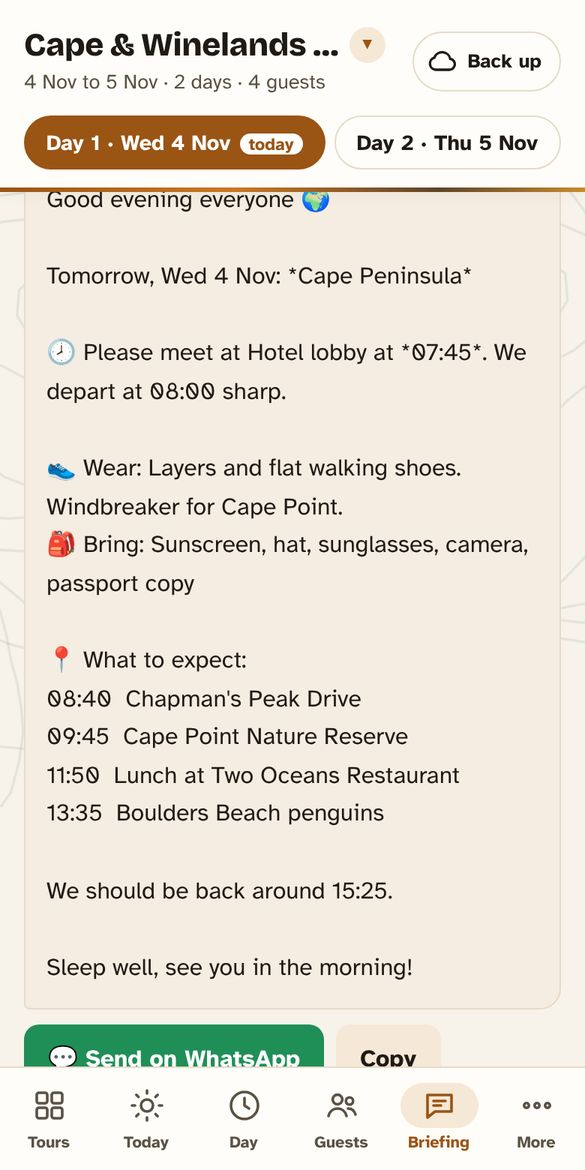
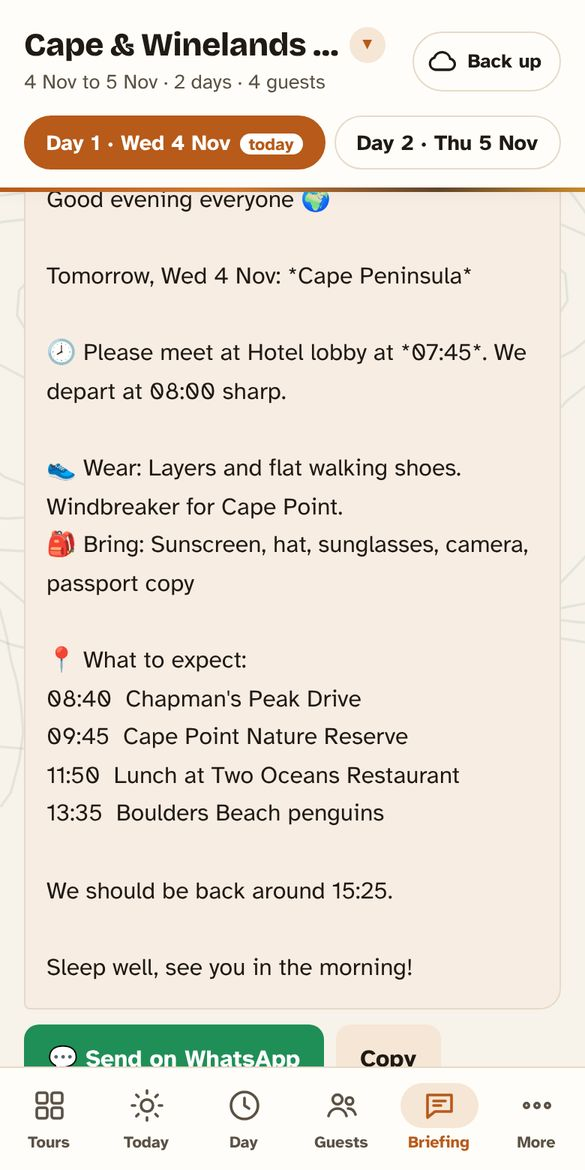
Palette: #B75A1A burnt ochre as the main colour
Claude-Session: https://claude.ai/code/session_018UiXZK7UZvbaUVGs1HsDqT

Changed region(s): [[0.0308, 0.0923, 0.5538, 0.1538], [0.0, 0.1538, 0.0308, 0.1846]]

diff --git a/site/index.html b/site/index.html
@@ -68,17 +68,17 @@ input:focus,textarea:focus,button:focus-visible{outline:2px solid var(--accent);
 .tmore summary::-webkit-details-marker{display:none}
 .tile .tic{font-size:1.2rem;font-weight:800;color:var(--accent)}
 nav button span{font-size:.68rem}
-/* Ochre palette (v15): #CC7722 is the signature; #9A5414 carries text and buttons so they stay readable in sun */
-:root{--bg:#f7f2ea;--surface:#fffdf9;--soft:#f6e8d6;--line:#e6dac8;--muted:#5a5144;--ink:#1f1a14;--accent:#9a5414;--accent-2:#cc7722;--brand:#cc7722;--ochre:#5e4429;--sand:#f6e9d6;--sky:#2f6ea5;--game:#5f7a2e}
+/* Ochre palette (v15): #B75A1A burnt ochre is the main colour (white text on it passes WCAG AA), umber the second */
+:root{--bg:#f7f2ea;--surface:#fffdf9;--soft:#f6e6d6;--line:#e6dac8;--muted:#5a5144;--ink:#1f1a14;--accent:#b75a1a;--accent-2:#d07a35;--brand:#b75a1a;--ochre:#5e4429;--sand:#f6e9d6;--sky:#2f6ea5;--game:#5f7a2e}
 body{background-image:url(topo-earth.svg)}
-header::after{background:linear-gradient(90deg,var(--brand),#e09a45 55%,var(--ochre))}
-.hero{background:url(topo-w.svg) right -120px center/560px auto no-repeat,linear-gradient(150deg,#b86418 0%,#8a4a12 100%);box-shadow:0 10px 30px rgb(110 60 15 / .28)}
-.hello{background:linear-gradient(90deg,var(--brand),#8a4a12)}
-.tbadge.b-live{background:var(--brand);color:#1f1a14}.tbadge.b-next{background:var(--soft);color:var(--accent)}
+header::after{background:linear-gradient(90deg,var(--brand),#d9923f 55%,var(--ochre))}
+.hero{background:url(topo-w.svg) right -120px center/560px auto no-repeat,linear-gradient(150deg,#b75a1a 0%,#8a4210 100%);box-shadow:0 10px 30px rgb(110 50 15 / .28)}
+.hello{background:linear-gradient(90deg,#b75a1a,#7e3d10)}
+.tbadge.b-live{background:var(--brand);color:#fff}.tbadge.b-next{background:var(--soft);color:var(--accent)}
 .tcard.live{border-color:var(--brand);box-shadow:0 0 0 1px var(--brand),var(--shadow)}
-nav button.on svg{background:#f6e1c4}
+nav button.on svg{background:#f5ddc8}
 .days button.on{background:var(--accent);border-color:var(--accent)}
-.days button .td{background:var(--brand);color:#1f1a14}
+.days button .td{background:#fff;color:var(--accent)}
 .arch summary{cursor:pointer;font-weight:700;margin:18px 0 6px;color:var(--muted)}
 .inst{max-width:640px;margin:12px auto 0;box-sizing:border-box;display:flex;flex-wrap:wrap;gap:8px;align-items:center;justify-content:space-between;background:var(--soft);border:1px solid var(--line);border-radius:12px;padding:10px 12px;font-size:.92rem}
 @media (max-width:672px){.inst{margin:12px 16px 0}}

diff --git a/site/guides.html b/site/guides.html
@@ -1,4 +1,4 @@
-<!doctype html><html lang="en-GB"><head><meta charset="utf-8"><meta name="viewport" content="width=device-width,initial-scale=1"><meta name="color-scheme" content="light"><meta name="theme-color" content="#9a5414">
+<!doctype html><html lang="en-GB"><head><meta charset="utf-8"><meta name="viewport" content="width=device-width,initial-scale=1"><meta name="color-scheme" content="light"><meta name="theme-color" content="#b75a1a">
 <title>Guidewise · The tour guide's app. Tomorrow, sorted.</title>
 <meta name="description" content="Guidewise is the pocket app for tour guides: day plans that move with you, guests and dietaries, WhatsApp briefings, AI import of itineraries, weather, running late, cash and tips. Works offline.">
 <meta property="og:title" content="Guidewise · Tomorrow, sorted."><meta property="og:description" content="The pocket app for tour guides. Day plan, guests, WhatsApp briefing, AI import, offline."><meta property="og:image" content="img/app-today.jpg">
@@ -6,7 +6,7 @@
 <link rel="preconnect" href="https://fonts.googleapis.com">
 <link rel="stylesheet" href="https://fonts.googleapis.com/css2?family=Bricolage+Grotesque:opsz,wght@12..96,600;12..96,800&family=Atkinson+Hyperlegible:wght@400;700&display=swap">
 <style>
-:root{--bg:#f7f2ea;--surface:#fff;--ink:#0f1a15;--muted:#4a5750;--line:#dde3de;--accent:#9a5414;--accent-2:#cc7722;--ochre:#5e4429;--soft:#f6e8d6;--sand:#f6e9d6;--sky:#2f6ea5;--plum:#7a4b8c;--rose:#b2465a;--game:#3f7a34;
+:root{--bg:#f7f2ea;--surface:#fff;--ink:#0f1a15;--muted:#4a5750;--line:#dde3de;--accent:#b75a1a;--accent-2:#d07a35;--ochre:#5e4429;--soft:#f6e8d6;--sand:#f6e9d6;--sky:#2f6ea5;--plum:#7a4b8c;--rose:#b2465a;--game:#3f7a34;
   --display:"Bricolage Grotesque",ui-sans-serif,system-ui,sans-serif;--body:"Atkinson Hyperlegible",ui-sans-serif,system-ui,sans-serif;--shadow:0 1px 2px rgb(15 26 21 / .05),0 8px 24px rgb(15 26 21 / .07)}
 *{box-sizing:border-box}
 body{margin:0;background:var(--bg) url(topo-earth.svg) right -200px top -40px/900px auto no-repeat;color:var(--ink);font:18px/1.6 var(--body)}

diff --git a/site/sw.js b/site/sw.js
@@ -1,4 +1,4 @@
-const C='tp-v34';const F=['./','index.html','backup.js','import.js','vendor/supabase-2.45.4.js','privacy.html','setup.html','guides.html','terms.html','manifest.webmanifest','icon-192.png','icon-512.png','topo.svg','topo-w.svg','topo-earth.svg'];
+const C='tp-v35';const F=['./','index.html','backup.js','import.js','vendor/supabase-2.45.4.js','privacy.html','setup.html','guides.html','terms.html','manifest.webmanifest','icon-192.png','icon-512.png','topo.svg','topo-w.svg','topo-earth.svg'];
 self.addEventListener('install',e=>{e.waitUntil(caches.open(C).then(c=>c.addAll(F)));self.skipWaiting()});
 self.addEventListener('activate',e=>{e.waitUntil(caches.keys().then(k=>Promise.all(k.filter(x=>x!==C).map(x=>caches.delete(x)))));self.clients.claim()});
 /* Own files: network first (so a new version shows at once when there is signal), saved copy when offline or slow.

diff --git a/site/privacy.html b/site/privacy.html
@@ -1,7 +1,7 @@
 <!doctype html><html lang="en-GB"><head><meta charset="utf-8"><meta name="viewport" content="width=device-width,initial-scale=1"><meta name="color-scheme" content="light">
 <title>Guidewise privacy notice</title>
 <style>
-:root{--bg:#f7f2ea;--ink:#111a16;--muted:#46534c;--accent:#9a5414;--line:#d6ddd8}
+:root{--bg:#f7f2ea;--ink:#111a16;--muted:#46534c;--accent:#b75a1a;--line:#d6ddd8}
 body{background:var(--bg);color:var(--ink);font:17px/1.6 "Atkinson Hyperlegible",ui-sans-serif,system-ui,sans-serif;margin:0}
 main{max-width:640px;margin:0 auto;padding:24px 16px 60px}
 h1{font-size:1.6rem;margin:0 0 4px}h2{font-size:1.15rem;margin:28px 0 8px}

diff --git a/site/setup.html b/site/setup.html
@@ -2,7 +2,7 @@
 <title>Set up Guidewise</title>
 <link rel="icon" href="icon-192.png">
 <style>
-:root{--bg:#f7f2ea;--surface:#fff;--ink:#111a16;--muted:#46534c;--line:#d6ddd8;--accent:#9a5414;--soft:#f6e8d6;--ochre:#9a6212}
+:root{--bg:#f7f2ea;--surface:#fff;--ink:#111a16;--muted:#46534c;--line:#d6ddd8;--accent:#b75a1a;--soft:#f6e8d6;--ochre:#9a6212}
 body{background:var(--bg);color:var(--ink);font:17px/1.6 "Atkinson Hyperlegible",ui-sans-serif,system-ui,sans-serif;margin:0}
 main{max-width:640px;margin:0 auto;padding:24px 16px 60px}
 h1{font-size:1.7rem;margin:0}h2{font-size:1.2rem;margin:30px 0 8px}h3{font-size:1rem;margin:16px 0 4px}

diff --git a/site/terms.html b/site/terms.html
@@ -2,7 +2,7 @@
 <title>Guidewise terms and pricing</title>
 <link rel="icon" href="icon-192.png">
 <style>
-:root{--bg:#f7f2ea;--ink:#111a16;--muted:#46534c;--accent:#9a5414;--line:#d6ddd8}
+:root{--bg:#f7f2ea;--ink:#111a16;--muted:#46534c;--accent:#b75a1a;--line:#d6ddd8}
 body{background:var(--bg);color:var(--ink);font:17px/1.6 "Atkinson Hyperlegible",ui-sans-serif,system-ui,sans-serif;margin:0}
 main{max-width:640px;margin:0 auto;padding:24px 16px 60px}
 h1{font-size:1.6rem;margin:0 0 4px}h2{font-size:1.15rem;margin:28px 0 8px}

diff --git a/CLAUDE.md b/CLAUDE.md
@@ -10,7 +10,7 @@ Tagline idea: "Guidewise. Tomorrow, sorted."
 ## Files
 - site/: everything public (Netlify publish dir, set in netlify.toml). Nothing outside site/ is served
 - site/index.html: whole app (vanilla JS, no build step)
-- site/sw.js: service worker. Bump cache name tp-vN on every front-end change (currently tp-v34; own files are fetched network-first, cache when offline). New precached files go in its F list
+- site/sw.js: service worker. Bump cache name tp-vN on every front-end change (currently tp-v35; own files are fetched network-first, cache when offline). New precached files go in its F list
 - site/backup.js: cloud backup (sign-in, POPIA consent, passphrase, encrypt, sync). Shares globals with index.html
 - site/import.js: AI import (tab 'import', from Tours > Import from documents or the Docs tab; can use documents already saved in the tour). Loaded after backup.js and uses its globals (sb, user, plan, plus, refresh, SB_URL, SB_KEY)
 - site/vendor/xlsx-mini-0.18.5.js: SheetJS (Apache-2.0), lazy-loaded by import.js for .xlsx/.csv
@@ -21,7 +21,7 @@ Tagline idea: "Guidewise. Tomorrow, sorted."
 
 ## Design (v10)
 - Opens on Tours every time (tab 'home'; first run still shows the welcome). Bottom bar: Tours, Today, Day, Guests, Briefing, More. Tours page groups: On tour now, Coming up, No dates yet, Finished; actions under More per card
-- Palette (v15): ochre. #CC7722 (--brand) is the signature colour (header line, active nav, badges, highlights); #9A5414 (--accent) carries buttons and text for outdoor contrast; deep umber #5E4429 (--ochre var) is the second colour. White text never sits directly on #CC7722. Icons recoloured; topo-earth.svg background
+- Palette (v15): ochre. #B75A1A burnt ochre (--brand and --accent) is the main colour for buttons, hero, badges and the header line (white text on it passes WCAG AA, 4.7); deep umber #5E4429 (--ochre var) is the second colour. Icons recoloured; topo-earth.svg background
 - Was: Today, Day, Guests, Briefing, More (More holds Checklist, Docs, Local intel, Import, All tours, Backup). Tour switcher at the top (tab name + dates ▾ opens #tpanel: tours ordered on tour, upcoming, undated, finished; + New tour, Import, rename, Manage tours). Day chips only on Day/Checklist/Briefing/Docs
 - Today (tab 'today', opening screen): focusDay() = today's tour day, else the next one; hero with now/next; nextSteps() gives up to 4 predictive actions (data-go="tab:dayIndex"); tiles; compact install hint
 - Look (v11): topo.svg / topo-w.svg contour graphics (body and Today hero), green-to-ochre accent line under the header, coloured next-step icons and tiles. Stop types inferred by kindOf() (meal, flight, wildlife, stay, free) colour the timeline
